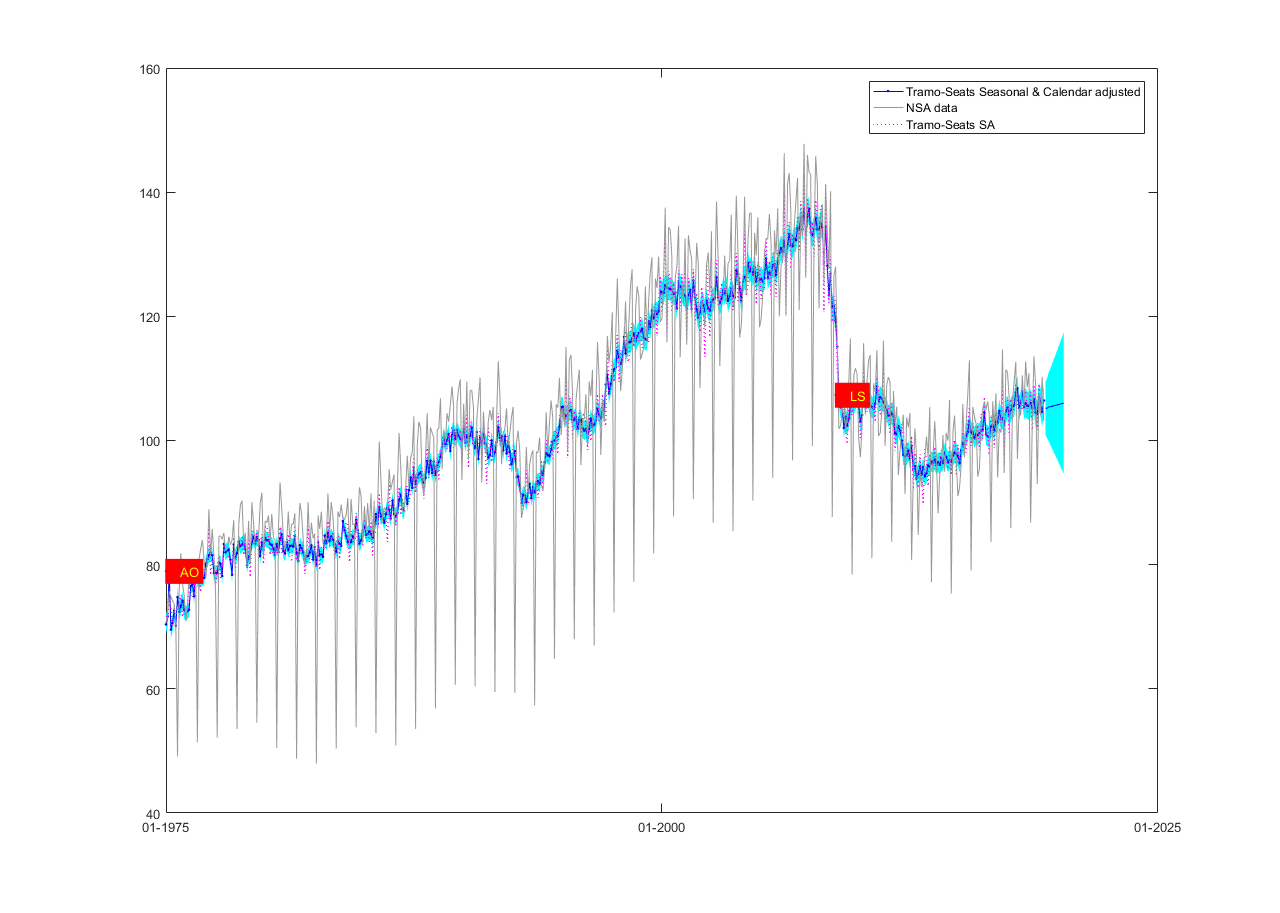
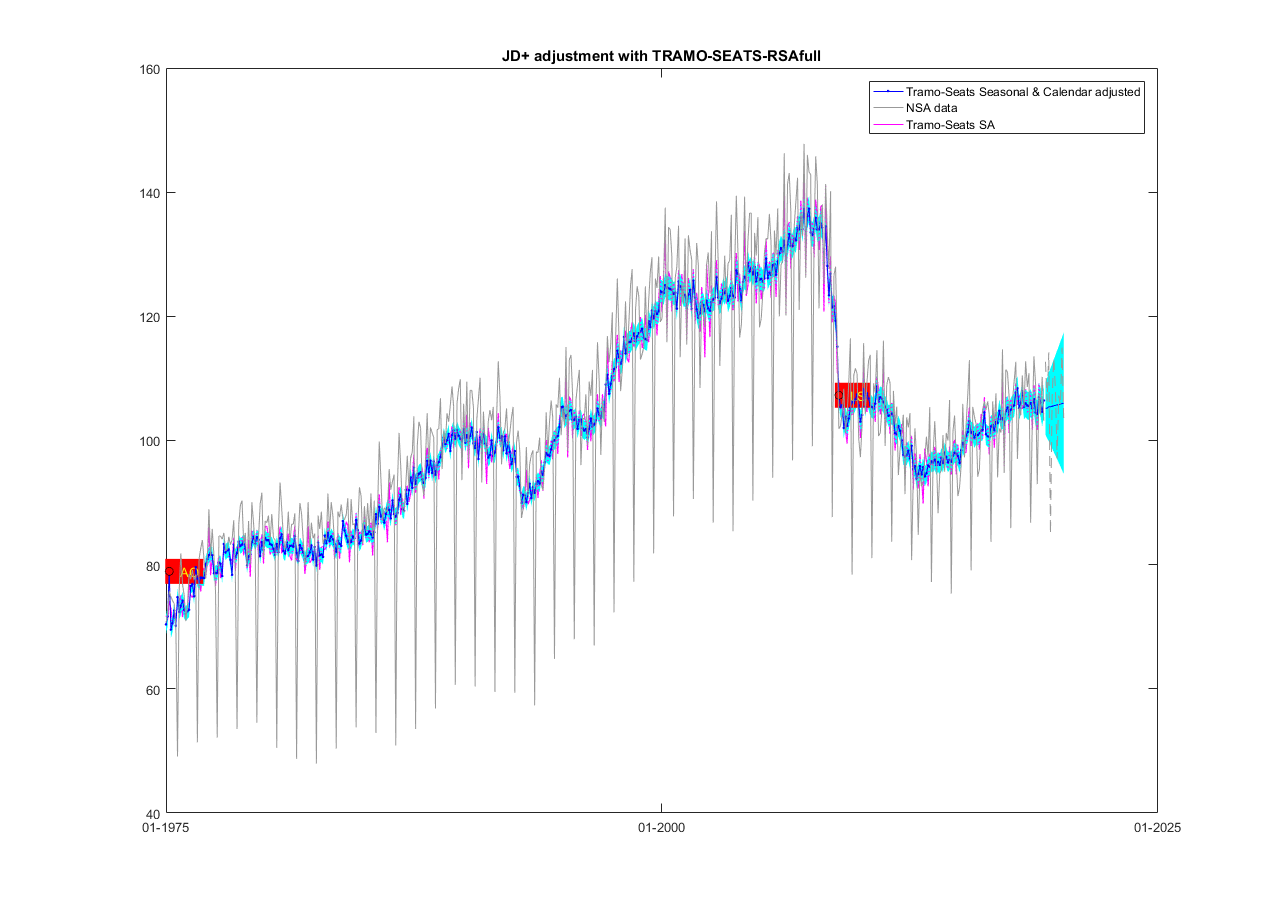
The output contains also the forecasts of the non-adjusted data + outliers displayed with red circle

diff --git a/mjdemetra.m b/mjdemetra.m
@@ -21,8 +21,10 @@ function [output,rslts]= mjdemetra(data,varargin)
 % 
 % [double array (Matlab) with s. adjusted data                  ] output.sa
 % [double array (Matlab) with non adjusted data                 ] output.nsa
+% [double array (Matlab) with non adjusted forecasts            ] output.Fnsa
 % [timeseries (Matlab) with s. adjusted data + outliers info    ] output.saTs
 % [timeseries (Matlab) with non adjusted data                   ] output.nsaTs
+% [timeseries (Matlab) with non adjusted forecasts              ] output.FnsaTs
 % [timeseries (Matlab) with 'linearised adjusted series' and
 %  a measure of the uncertainty around it; only for TramoSeats &
 %  excludes parameter uncertainty: data, upperbound, lowerbound] output.saLinTs/saLinTsF 
@@ -44,13 +46,13 @@ function [output,rslts]= mjdemetra(data,varargin)
 %%                                        Param1          Param2                       Param3
 % Examples:                            __________   __________________      ______________________
 %                                     /          \ /                  \    /                      \
-%        [sa, rslts]= mjdemetra2(data,'horizon',20,'Method','TramoSeats','CalendarOption','RSAfull')
-%        [sa, rslts]= mjdemetra2(data2,            'Method','X13'      );
-%        [sa, rslts]= mjdemetra2(data,'horizon',20,'Method','TramoSeats','CalendarOption','RSA5')
-%        [sa, rslts]= mjdemetra2(data,'horizon',20,'Method','X13'       ,'CalendarOption','RSA5c')
-%        [sa, rslts]= mjdemetra2(data)
-%        [sa, rslts]= mjdemetra2(data,                                  ,'CalendarOption','RSA0')
-%        [sa, rslts]= mjdemetra2(data,                                                          , 'plot',false)
+%        [sa, rslts]= mjdemetra(data,'horizon',20,'Method','TramoSeats','CalendarOption','RSAfull')
+%        [sa, rslts]= mjdemetra(data2,            'Method','X13'      );
+%        [sa, rslts]= mjdemetra(data,'horizon',20,'Method','TramoSeats','CalendarOption','RSA5')
+%        [sa, rslts]= mjdemetra(data,'horizon',20,'Method','X13'       ,'CalendarOption','RSA5c')
+%        [sa, rslts]= mjdemetra(data)
+%        [sa, rslts]= mjdemetra(data,                                  ,'CalendarOption','RSA0')
+%        [sa, rslts]= mjdemetra(data,                                                          , 'plot',false)
 %
 % By default, the method 'TramoSeats' is used (with specification'RSAfull', unless otherwise stated)
 % By default, a graph is plotted with 
@@ -82,7 +84,7 @@ function [output,rslts]= mjdemetra(data,varargin)
 %
 % Code written by David de Antonio Liedo
 % Feel free to modify this function or create alternative outputs
-% Dont' hesitate to contact me if you need assistance 
+% Don't hesitate to contact me if you need assistance 
 % Contact email: david.deantonioliedo@nbb.be
 % Github       : https://github.com/Liedo
 
@@ -141,6 +143,7 @@ if ~isempty(p.UsingDefaults)
 end
  
 
+%% Here's where the seasonal adjustment happens
 if strcmp(saOption,'RSAX11') | strcmp(saOption,'RSA2c')| strcmp(saOption,'RSA4c')| strcmp(saOption,'RSA5c')
         saOptionJD = ec.satoolkit.x13.X13Specification.fromString(saOption);
         rslts = ec.satoolkit.algorithm.implementation. ...
@@ -160,6 +163,8 @@ else %saMethod=='TramoSeats'
         rslts = ec.satoolkit.algorithm.implementation. ...
             TramoSeatsProcessingFactory.process(data, saOptionJD);
 end
+
+
 
 
 %%  Outliers Identification
@@ -210,6 +215,13 @@ if  strcmp(saMethod,'TramoSeats')
     T=adjusted.getLength();
 
 
+    % Non SA F
+    nsaTsF = rslts.getData('y_f', data.getClass());  
+    nsaF    = nan(T+horizon,1);     %  initialization with NAN
+     for i=T:(T+horizon-1)
+        nsaF(i+1,1)= nsaTsF.get(i-T);
+     end
+        
     % SA data F
     saTsF = rslts.getData('decomposition.sa_lin_f', data.getClass());
     saTsF_se = rslts.getData('decomposition.sa_lin_ef', data.getClass());
@@ -406,25 +418,56 @@ if  strcmp(saMethod,'TramoSeats')
    
 
   if grafico 
+   % values to add shades in the graph
+    
+   idx=find(isnan(tsCI.Data(:,1)));
+   idx1=idx(1)-1;
+   x=tiempo00(1:idx1)';
+   y1=tsCI.Data(1:idx1,1)';
+   y2=tsCI.Data(1:idx1,2)';
+   
+   idx=find(isnan(tsCI.Data(:,3)));
+   idx1=idx(end)+1;
+   xF=tiempo00(idx1:end)';
+   y1F=tsCI.Data(idx1:end,3)';
+   y2F=tsCI.Data(idx1:end,4)';
+
+
+   % the graph
+    
    figure
-     plot(ts_adj,'.-b'),  datetick('x', timeFormat), xlabel('time'),title(['JD+ adjustment with TRAMO-SEATS-',p.Results.CalendarOption]);
-    hold on
-    % too complicated: use tiempo00 instead
-    plot(tiempo00,ts.Data(:,1),'k',... % datenum(fechas,'mm-yyyy'),ts.Data(:,2),'b.-',...        
-         tiempo00,adj+rawData-ycal ,'m:',... 
-         tiempo00,tsCI.Data(:,1),'b:',...
-         tiempo00,tsCI.Data(:,2),'b:',...
-         tiempo00,tsCI.Data(:,3),'b:',...
-         tiempo00,tsCI.Data(:,4),'b:',...
-         tiempo00,mean(tsCI.Data(:,3:4),2),'b')
-         legend('Tramo-Seats SA  & Cal','raw','Tramo-Seats SA')
-    datetick('x', timeFormat);
+     plot(ts_adj,'.-b'), datetick('x', timeFormat), xlabel('time');
+     hold on
+     plot(tiempo00,ts.Data(:,1),'Color',[0.6 0.6 0.6]) % datenum(fechas,'mm-yyyy'),ts.Data(:,2),'b.-',...        
+     hold on         
+     plot(tiempo00,adj+rawData-ycal ,'m')           
+     legend('Tramo-Seats Seasonal & Calendar adjusted','NSA data','Tramo-Seats SA')
+     hold on
+     fill([x fliplr(x)],[y1 fliplr(y2)],[0 1 1],'LineStyle','none')
+     hold on
+     fill([xF fliplr(xF)],[y1F fliplr(y2F)],[0 1 1],'LineStyle','none')   
+     hold on
+     plot(tiempo00,mean(tsCI.Data(:,3:4),2),'b')
+     hold on
+     plot(ts_adj,'.-b'),  datetick('x', timeFormat)%, xlabel('time'),title(['JD+ adjustment with TRAMO-SEATS-',p.Results.CalendarOption]);
+     hold on
+     plot(tiempo00,adj+rawData-ycal ,'m:','LineWidth',1) 
+     hold on
+     plot(tiempo00,ts.Data(:,1),'Color',[0.6 0.6 0.6])
     hold on
      if nout>0       
-      text( dateOutlier  ,ts_adj.Data(indice,1),oType,'Color','red')     
+      text( dateOutlier  ,ts_adj.Data(indice,1),oType,'Color','yellow','BackgroundColor','red')     
      end
+     hold on
+     plot(ts_adj,'.-b')
+     hold on          
+     plot(tiempo00,ts.Data(:,1),'Color',[0.6 0.6 0.6]) % datenum(fechas,'mm-yyyy'),ts.Data(:,2),'b.-',...        
+     hold on
+     plot(tiempo00,nsaF,'--','Color',[0.6 0.6 0.6])  
+     datetick('x', timeFormat);
+     title(['JD+ adjustment with TRAMO-SEATS-',p.Results.CalendarOption])
 %         tiempo00,ts.Data(:,3),'c',... % linearised series (remove; confusing for the user)
-    grid minor
+    
     
   end
 %    dateOutlier
@@ -499,14 +542,14 @@ else
      figure
      plot(ts_adj,'.-b'),  datetick('x', timeFormat), xlabel('time'),title(['JD+ adjustment with X13-',p.Results.CalendarOption]);
      hold on
-     plot( tiempo00 , rawData   ,'k') , datetick('x', timeFormat)
+     plot( tiempo00 , rawData   ,'Color',[0.6 0.6 0.6]) , datetick('x', timeFormat)
      hold on
      plot( tiempo00 , adj+rawData-ycal   ,'m:') , datetick('x', timeFormat)
      if nout>0
          hold on %     
-         text( dateOutlier  ,ts_adj.Data(indice,1),oType,'Color','red')     
+         text( dateOutlier  ,ts_adj.Data(indice,1),oType,'Color','yellow','BackgroundColor','red')     
      end
-     legend('X13 SA  & Cal','raw','X13 SA')
+     legend('X13 Seasonal & Calendar adjusted','NSA Data','X13 SA')
      datetick('x', timeFormat);
      
     end
@@ -517,8 +560,8 @@ end
     
 %% outputs
 output.sa=adj;
+output.sa_noCal=adj+rawData-ycal;
 output.nsa=rawData;
-
 output.saTs=ts_adj;
 
 output.nsaTs=timeseries(rawData,tiempo00);
@@ -529,6 +572,8 @@ saLin_with_bounds=[adj2 adj2U  adj2L ];
 output.saLinTs=timeseries(saLin_with_bounds,tiempo00);
 saLin_with_boundsF=[(adj2U_F+adj2L_F)/2 adj2U_F  adj2L_F ]; 
 output.saLinFTsF=timeseries(saLin_with_bounds,tiempo00);
-
+output.FnsaTs=timeseries(nsaF,tiempo00);% forecasts of non-adjusted data
+output.FnsaTs.TimeInfo.Format=timeFormat;
+output.Fnsa=nsaF; % forecasts of non-adjusted data
 end
 
